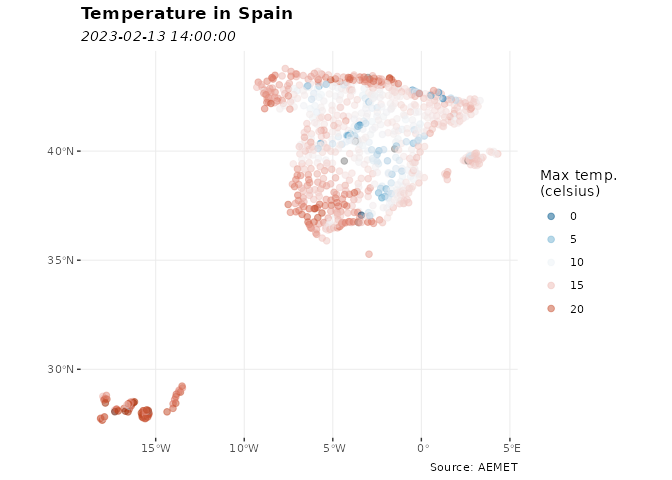
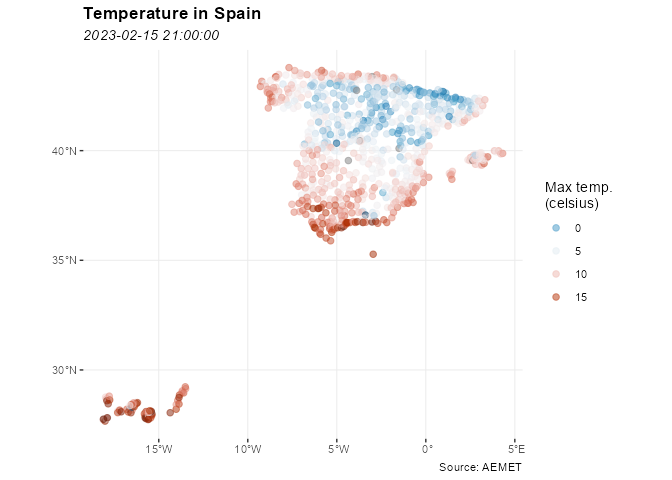
Fix example

diff --git a/README.md b/README.md
@@ -120,20 +120,20 @@ library(climaemet)
 # See a tibble in action
 
 aemet_last_obs("9434")
-#> # A tibble: 23 × 25
+#> # A tibble: 24 × 25
 #>    idema   lon fint                 prec   alt  vmax    vv    dv   lat  dmax
 #>    <chr> <dbl> <dttm>              <dbl> <dbl> <dbl> <dbl> <dbl> <dbl> <dbl>
-#>  1 9434  -1.00 2023-02-13 14:00:00     0   249   5.9   3.5   122  41.7   118
-#>  2 9434  -1.00 2023-02-13 15:00:00     0   249   6.5   3.3   116  41.7   108
-#>  3 9434  -1.00 2023-02-13 16:00:00     0   249   6.6   3.2   141  41.7   123
-#>  4 9434  -1.00 2023-02-13 17:00:00     0   249   5.5   3.5   140  41.7   130
-#>  5 9434  -1.00 2023-02-13 18:00:00     0   249   5     2      99  41.7   125
-#>  6 9434  -1.00 2023-02-13 19:00:00     0   249   4.9   0.9   106  41.7   345
-#>  7 9434  -1.00 2023-02-13 20:00:00     0   249   1.1   0.6   269  41.7   275
-#>  8 9434  -1.00 2023-02-13 21:00:00     0   249   1.8   1.4   189  41.7   195
-#>  9 9434  -1.00 2023-02-13 22:00:00     0   249   1.5   1     224  41.7   190
-#> 10 9434  -1.00 2023-02-13 23:00:00     0   249   2     0.7   173  41.7   185
-#> # … with 13 more rows, and 15 more variables: ubi <chr>, pres <dbl>, hr <dbl>,
+#>  1 9434  -1.00 2023-02-15 21:00:00     0   249   4.6   1.2   208  41.7   248
+#>  2 9434  -1.00 2023-02-15 22:00:00     0   249   1.5   1.1   303  41.7   315
+#>  3 9434  -1.00 2023-02-15 23:00:00     0   249   1.3   0.9   155  41.7   285
+#>  4 9434  -1.00 2023-02-16 00:00:00     0   249   1.1   0.7   302  41.7   308
+#>  5 9434  -1.00 2023-02-16 01:00:00     0   249   0.9   0.4   223  41.7   200
+#>  6 9434  -1.00 2023-02-16 02:00:00     0   249   1.5   1      89  41.7   118
+#>  7 9434  -1.00 2023-02-16 03:00:00     0   249   1.4   0.8   196  41.7   100
+#>  8 9434  -1.00 2023-02-16 04:00:00     0   249   2.1   0.8   228  41.7   360
+#>  9 9434  -1.00 2023-02-16 05:00:00     0   249   1.2   0.5    92  41.7    93
+#> 10 9434  -1.00 2023-02-16 06:00:00     0   249   1.1   0.2   346  41.7   123
+#> # … with 14 more rows, and 15 more variables: ubi <chr>, pres <dbl>, hr <dbl>,
 #> #   stdvv <dbl>, ts <dbl>, pres_nmar <dbl>, tamin <dbl>, ta <dbl>, tamax <dbl>,
 #> #   tpr <dbl>, stddv <dbl>, inso <dbl>, tss5cm <dbl>, pacutp <dbl>,
 #> #   tss20cm <dbl>
@@ -170,14 +170,14 @@ data_observation <- aemet_last_obs(station)
 knitr::kable(head(data_observation))
 ```
 
-| idema |       lon | fint                | prec | alt | vmax |  vv |  dv |      lat | dmax | ubi                 |   pres |  hr | stdvv |   ts | pres_nmar | tamin |   ta | tamax | tpr | stddv | inso | tss5cm | pacutp | tss20cm |
-|:------|----------:|:--------------------|-----:|----:|-----:|----:|----:|---------:|-----:|:--------------------|-------:|----:|------:|-----:|----------:|------:|-----:|------:|----:|------:|-----:|-------:|-------:|--------:|
-| 9434  | -1.004167 | 2023-02-13 14:00:00 |    0 | 249 |  5.9 | 3.5 | 122 | 41.66056 |  118 | ZARAGOZA AEROPUERTO | 1003.3 |  54 |   0.6 | 13.8 |    1034.0 |  10.0 | 11.6 |  11.7 | 2.7 |    14 | 60.0 |    9.7 |      0 |     5.8 |
-| 9434  | -1.004167 | 2023-02-13 15:00:00 |    0 | 249 |  6.5 | 3.3 | 116 | 41.66056 |  108 | ZARAGOZA AEROPUERTO | 1003.0 |  50 |   0.9 | 14.1 |    1033.6 |  11.6 | 12.6 |  12.6 | 2.5 |    18 | 60.0 |   10.3 |      0 |     6.3 |
-| 9434  | -1.004167 | 2023-02-13 16:00:00 |    0 | 249 |  6.6 | 3.2 | 141 | 41.66056 |  123 | ZARAGOZA AEROPUERTO | 1002.8 |  47 |   0.7 | 13.7 |    1033.4 |  12.6 | 12.8 |  12.9 | 1.7 |    15 | 60.0 |   10.4 |      0 |     6.8 |
-| 9434  | -1.004167 | 2023-02-13 17:00:00 |    0 | 249 |  5.5 | 3.5 | 140 | 41.66056 |  130 | ZARAGOZA AEROPUERTO | 1002.8 |  51 |   0.6 | 11.0 |    1033.5 |  11.8 | 11.8 |  12.9 | 1.9 |     8 | 60.0 |   10.0 |      0 |     7.2 |
-| 9434  | -1.004167 | 2023-02-13 18:00:00 |    0 | 249 |  5.0 | 2.0 |  99 | 41.66056 |  125 | ZARAGOZA AEROPUERTO | 1003.2 |  58 |   0.5 |  8.0 |    1034.0 |   9.6 | 11.3 |  11.8 | 3.4 |    68 | 23.2 |    9.2 |      0 |     7.6 |
-| 9434  | -1.004167 | 2023-02-13 19:00:00 |    0 | 249 |  4.9 | 0.9 | 106 | 41.66056 |  345 | ZARAGOZA AEROPUERTO | 1003.4 |  65 |   0.3 |  5.2 |    1034.4 |   8.3 |  8.3 |  12.4 | 2.1 |    34 |  0.0 |    8.3 |      0 |     7.8 |
+| idema |       lon | fint                | prec | alt | vmax |  vv |  dv |      lat | dmax | ubi                 |   pres |  hr | stdvv |  ts | pres_nmar | tamin |  ta | tamax | tpr | stddv | inso | tss5cm | pacutp | tss20cm |
+|:------|----------:|:--------------------|-----:|----:|-----:|----:|----:|---------:|-----:|:--------------------|-------:|----:|------:|----:|----------:|------:|----:|------:|----:|------:|-----:|-------:|-------:|--------:|
+| 9434  | -1.004167 | 2023-02-15 21:00:00 |    0 | 249 |  4.6 | 1.2 | 208 | 41.66056 |  248 | ZARAGOZA AEROPUERTO |  999.1 |  70 |   1.1 | 5.8 |    1030.2 |   6.3 | 6.4 |   7.4 | 1.3 |    47 |    0 |    8.1 |      0 |     8.8 |
+| 9434  | -1.004167 | 2023-02-15 22:00:00 |    0 | 249 |  1.5 | 1.1 | 303 | 41.66056 |  315 | ZARAGOZA AEROPUERTO |  999.8 |  71 |   0.2 | 5.0 |    1031.0 |   6.0 | 6.0 |   6.4 | 1.1 |    10 |    0 |    7.6 |      0 |     8.7 |
+| 9434  | -1.004167 | 2023-02-15 23:00:00 |    0 | 249 |  1.3 | 0.9 | 155 | 41.66056 |  285 | ZARAGOZA AEROPUERTO |  999.9 |  78 |   0.1 | 2.4 |    1031.2 |   4.9 | 4.9 |   6.0 | 1.5 |     7 |    0 |    7.1 |      0 |     8.5 |
+| 9434  | -1.004167 | 2023-02-16 00:00:00 |    0 | 249 |  1.1 | 0.7 | 302 | 41.66056 |  308 | ZARAGOZA AEROPUERTO | 1000.1 |  79 |   0.1 | 2.6 |    1031.5 |   4.0 | 4.0 |   4.9 | 0.6 |    10 |    0 |    6.6 |      0 |     8.3 |
+| 9434  | -1.004167 | 2023-02-16 01:00:00 |    0 | 249 |  0.9 | 0.4 | 223 | 41.66056 |  200 | ZARAGOZA AEROPUERTO | 1000.0 |  82 |   0.2 | 1.8 |    1031.5 |   3.1 | 3.1 |   4.0 | 0.4 |    27 |    0 |    6.1 |      0 |     8.2 |
+| 9434  | -1.004167 | 2023-02-16 02:00:00 |    0 | 249 |  1.5 | 1.0 |  89 | 41.66056 |  118 | ZARAGOZA AEROPUERTO | 1000.1 |  86 |   0.2 | 0.8 |    1031.7 |   2.4 | 2.4 |   3.1 | 0.2 |    10 |    0 |    5.7 |      0 |     8.0 |
 
 ``` r
 
